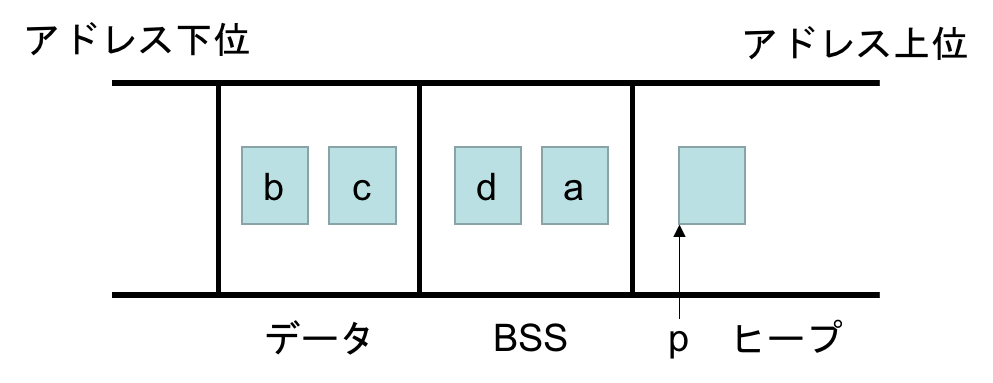
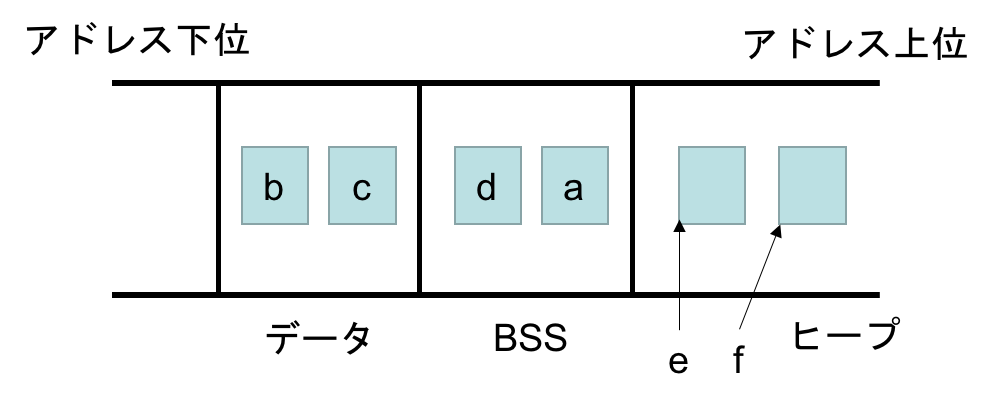
nits

diff --git a/exp1/exp1-6/index.html b/exp1/exp1-6/index.html
@@ -14,7 +14,7 @@
 	  <h1>第 6 回情報工学実験 1</h1>
 	  
 	  <div>
-	    <p>本課題の目的は，プログラムがどのようにコンピュータ上で動作しているか，および広く利用されている x86 のアセンブラに触れ，実機上でプログラムがどのように動作しているかを理解し，実感することである．これまで C 言語のプログラミングや計算機アーキテクチャなどの講義で，コンピュータ上でのプログラムの動作イメージをぼんやりと掴んでいるかもしれない．本課題では，プログラムがどのようにメモリ上に展開され，それらを CPU がどのように実行しているか，そのイメージをよりはっきりさせる．たとえば，再帰関数がコンピュータ上でどのように実行されているか，局所変数，大域変数がメモリ上にどのように配備されているか，を具体的に知る．本実験を通して，これまで学んできたプログラムとコンピュータの動作原理とが結びつけ，コンピュータが全体の動作理解の一助となれば幸いである．</p>
+	    <p>本課題の目的は，プログラムがどのようにコンピュータ上で動作しているか，および広く利用されている x86 のアセンブラに触れ，実機上でプログラムがどのように動作しているかを理解し，実感することである．これまで C 言語のプログラミングや計算機アーキテクチャなどの講義で，コンピュータ上でのプログラムの動作イメージをぼんやりと掴んでいるかもしれない．本課題では，プログラムがどのようにメモリ上に展開され，それらを CPU がどのように実行しているか，そのイメージをよりはっきりさせる．たとえば，再帰関数がコンピュータ上でどのように実行されているか，局所変数，大域変数がメモリ上にどのように配備されているか，を具体的に知る．本実験を通して，これまで学んできたプログラムとコンピュータの動作原理とが結びつき，コンピュータ全体の動作理解の一助となれば幸いである．</p>
 	  </div>
 	  <br>
 	  <ul>
@@ -28,14 +28,14 @@
 
 	      <h2>プログラムとコンピュータ</h2>
 
-	  <p>本課題では，これまで独立して学んできたプログラミングとコンピュータ()との理解を結びつけることを狙いとし，コンピュータ全体の動作の理解を深める．本学科の講義において，プログラムの制御構文やデータ構造を勉強し，C 言語や Java，Python を用いてプログラムを作り，コンピュータ上で動作させながらその理解を深めてきた．一方で，プログラムを実行するコンピュータは，前回の実験や計算機アーキテクチャで学んだように，メモリ上に配置された命令を CPU が取得(fetch)し，それを解釈(decode)，実行(execute)し，プログラムカウンタが示すアドレスを 1 進める．では，自分の作ったプログラム(大域変数や局所変数，制御構文など)がどのような形でメモリ上に配備され，CPU はそのプログラムはどのように実行しているのだろうか．</p>
+	  <p>本課題では，これまで独立して学んできたプログラミングとコンピュータアーキテクチャとの理解を結びつけることを狙いとし，コンピュータ全体の動作の理解を深める．本学科の講義において，プログラムの制御構文やデータ構造を勉強し，C 言語や Java，Python を用いてプログラムを作り，コンピュータ上で動作させながらその理解を深めてきた．一方で，プログラムを実行するコンピュータは，前回の実験1や計算機アーキテクチャで学んだように，メモリ上に配置された命令を CPU が取得(fetch)し，それを解釈(decode)，実行(execute)し，プログラムカウンタが示すアドレスを 1 進める．では，自分の作ったプログラム(大域変数や局所変数，制御構文など)がどのような形でメモリ上に配備され，CPU はそのプログラムはどのように実行しているのだろうか．</p>
 	  <center>
 	    <img src="./fig1.png" width="50%">
 	  </center>
-	<p> コンピュータ全体の動作の理解は本課題をこなせば確実に深まるが，すべてを理解するためにはまだ知識が足りないのが現実である．プログラムはどのようにコンパイルされるのか，なぜ複数のプログラムが動作しているのか，どのように他のコンピュータと通信しているのか，など疑問はたくさんある．これらのトピックについては，3年次に開講される，言語処理やオペレーティングシステム，計算機ネットワークについて触れる．常にコンピュータ全体の動作を意識すると，理解がしやすいと思う．お楽しみに．</p>
+	<p> コンピュータ全体の動作の理解は本課題をこなせば確実に深まるが，すべてを理解するためにはまだ知識が足りないのが現実である．プログラムはどのようにコンパイルされるのか，なぜ複数のプログラムが動作しているのか，どのように他のコンピュータと通信しているのか，など疑問はたくさんある．これらのトピックについては，3年次に開講される，言語処理系やオペレーティングシステム，計算機ネットワークについて触れる．常にコンピュータ全体の動作を意識すると，理解がしやすいと思う．お楽しみに．</p>
 	      
 	      <h2>メモリ上のプログラム</h2>
-	  <p>プログラムがメモリ上に配備された様子を図に示す．プログラムは大きく次の 3 つの領域によって構成される．それぞれ詳細を見ていく．</p>
+	  <p>プログラムがメモリ上に展開された様子を図に示す．プログラムは大きく次の 3 つの領域によって構成される．それぞれ詳細を見ていく．</p>
 	  <center>
 	  <img src="./fig2.png" width="50%">
 	  </center>
@@ -49,7 +49,7 @@
 
 	      
 	  <h3>テキスト領域</h3>
-	  <p>機械語が格納されており，プログラムカウンタは常にテキスト領域を指しており，他領域を指すことはまずない．不正な書き換えを防止するために，読み込み専用になっていることが普通である．</p>
+	  <p>機械語が格納されており，プログラムカウンタは常にテキスト領域を指している．プログラムカウンタは他領域を指すことはまずない．不正な書き換えを防止するために，テキスト領域は読み込み専用になっていることが普通である．</p>
 	  
 	  <h3>データ領域</h3>
 	  <p>機械語が参照するデータが格納されている．データ領域はデータの種類によって，さらに 3 つの領域に別れている．</p>
@@ -104,7 +104,7 @@ f's address = 0x7fded2c04b20
  </code>
 </pre>
 </div>
-<p>初期化された b と c の後に，初期化されていない a と c が配備され，そのずっと後方に動的に確保した e と f がある．</p>
+<p>初期化された b と c の後に，初期化されていない d と a が配備され，そのずっと後方に動的に確保した e と f がある．</p>
 
 	  <center>
 	    <img src="./fig3.png" width="50%">
@@ -112,12 +112,12 @@ f's address = 0x7fded2c04b20
 
 
 <h3>スタック領域</h3>
-	  <p>スタックと聞くと，Last in, First out(LIFO) を想像するであろう．スタック領域は LIFO の動作をしながら，本領域は関数呼び出しを実現する上で重要な役割を果たす．スタック領域には，関数の戻りアドレスや局所変数，関数への引数が格納され，テキスト領域に格納されている機械語から適宜参照される．関数を呼び出してから，その関数から返ってくるまで，スタック以下のように利用される．</p>
+	  <p>スタックと聞くと，Last in, First out(LIFO) を想像するかと思う．スタック領域は LIFO の動作をしながら，関数呼び出しを実現する上で重要な役割を果たす．スタック領域には，関数の戻りアドレスや局所変数，関数への引数などが格納され，テキスト領域に格納されている機械語から適宜参照される．関数を呼び出してから，その関数から返ってくるまで，スタック以下のように利用される．</p>
 
 	  <ol>
-	    <li>関数が呼び出されると，引数の値と関数実行後に実行する機械語のアドレス(= 戻りアドレス)をスタックに格納する．</li><br>
+	    <li>関数が呼び出されると，引数の値と関数実行後に実行するメモリアドレス(= 戻りアドレス)をスタックに格納する．</li><br>
 
-	    <li>呼び出し先の関数の局所変数の領域を確保する．加えて，使用するレジスタの値をスタックに退避する．レジスタ値の退避は，
+	    <li>呼び出し先の関数の局所変数，引数の領域を確保する．加えて，使用するレジスタの値をスタックに退避する．レジスタ値の退避は，
 	      レジスタの値を関数を呼び出す前の状態に戻すために行う．これを行わないと，呼び出し元の関数に戻ったときに，
 	      呼び出し先の関数でのレジスタ値を使うことになり，関数終了後に演算を正しく再開できない．</li><br>
 
@@ -126,7 +126,7 @@ f's address = 0x7fded2c04b20
 	    <li>スタック内の戻りアドレスにジャンプして，呼び出し元の関数を実行する．</li><br>
 	  </ol>
 
-	  <p>たとえば次の関数呼び出しを伴う<a href="./program/sample2.c">プログラム</a>を考える．配列とそのサイズを引数として受け取り，配列の要素の和を返す sum() があり，1 から 10 の整数の和を計算している．</p>
+	  <p>たとえば関数呼び出しを伴う<a href="./program/sample2.c">プログラム</a>を考える．配列とそのサイズを引数として受け取り，配列の要素の和を返す sum() があり，1 から 10 の整数の和を計算している．</p>
 <div class="code">
 	  <pre>
 	    <code>
@@ -157,13 +157,13 @@ f's address = 0x7fded2c04b20
 </code>
  </pre>
 </div>
-	  <p>このプログラムを実行したときのスタックのおおざっぱな変化を下図に示す．簡単のため，レジスタの退避・復元は省略してある．プログラムが起動すると，main() にジャンプする．この際，main() の引数，main() を呼んだ関数への戻りアドレス，main() の局所変数がスタックに積まれる．ある関数を呼び出したときにスタックに積まれる一連のデータをまとめて<b>スタックフレーム</b>と呼ぶ．スタックに一連の情報が積まれたら main() を実行していき，配列 a の初期化が終わると，sum() を呼び出す(17〜20行目)．そして，sum() にジャンプするときには，スタックに引数(a, 10)，戻り番地(21行目に相当するアドレス)，そして sum() の局所変数(i, ret)が積まれる．関数実行後は，スタック上に保存されているの戻り番地へジャンプし，sum() を呼び出すときに生成したスタックフレームを開放する．</p>
+	  <p>このプログラムを実行したときのスタックのおおざっぱな変化を図に示す．簡単のため，レジスタの退避・復元，引数領域の確保は省略してある．プログラムが起動すると，main() にジャンプする．この際，main() の引数，main() を呼んだ関数への戻りアドレス，main() の局所変数がスタックに積まれる．ある関数を呼び出したときにスタックに積まれる一連のデータをまとめて<b>スタックフレーム</b>と呼ぶ．スタックに一連の情報が積まれたら main() を実行していき，配列 a の初期化が終わると，sum() を呼び出す(17〜20行目)．そして，sum() にジャンプするときには，スタックに引数(a, 10)，戻りアドレス(21行目に相当するアドレス)，そして sum() の局所変数(i, ret)が積まれる．関数実行後は，スタック上に保存されているの戻り番地へジャンプし，sum() を呼び出すときに生成したスタックフレームを開放する．</p>
 	  
 	  <center>
 	    <img src="./fig4.png" width="50%">
 	  </center>
 
-	  <p>もう少し複雑な例を考える．たとえば，再帰を利用する<a href="./program/sample3.c">プログラム</a>を考える．以下のプログラムのように，階乗を求める fact() が再帰を利用して記述されており，5 の階乗が出力される．</p>
+	  <p>もう少し複雑な関数呼び出しを考える．たとえば，再帰を利用する<a href="./program/sample3.c">プログラム</a>を考える．以下のプログラムのように，階乗を求める fact() が再帰を利用して記述されており，4 の階乗が出力される．</p>
 <div class="code">
 	  <pre>
 	    <code>
@@ -190,7 +190,7 @@ f's address = 0x7fded2c04b20
 </code>
  </pre>
 </div>
-	  <p>このプログラムを実行したときのスタックのおおざっぱな挙動を図xxx に示す．簡単のため，レジスタの退避・復元は省略してある．プログラムが起動すると，main() が呼ばれてスタック上に value という局所変数の領域が設けられる(13〜15行目)．次に，fact()が呼ばれる(17行目)．ここで，fact()にジャンプするわけだが，このときに関数の戻りアドレスとなるアドレス(18行目に相当するアドレス)と引数として渡した 4 の値がスタック上に積まれる．その後，fact()を実行する前に局所変数 ret の領域が同様にスタック上に確保される(5行目)．今，num = 5 なので，else の方が実行され，fact(3)が呼び出される(8行目)．すると，同様に引数の値，戻り番地，そして局所変数 ret の領域がスタックに設けられる．これが，fact(2)，fact(1)と繰り返される．fact(1)を実行するときに ret に 1 が代入されて，それが返り値になる．すると，fact(1)が終了し，fact(1)へジャンプするときにスタックに積んだ戻り番地に戻る(fact(2)実行時の8行目)．すると，ret には 2(num) × 1(fact(1)の返り値) = 2 が入り，fact(2)は終了する．すると，次は fact(2)へジャンプするときに記録した戻り番地へと戻る(fact(3)実行時の8行目)．同様に，ret には 3(num) × 2(fact(2)の返り値) = 6 が入り，fact(4)と戻っていく．
+	  <p>このプログラムを実行したときのスタックのおおざっぱな挙動を下図に示す．プログラムが起動すると，main() が呼ばれてスタック上に局所変数 value の領域が設けられる(13〜15行目)．次に，fact()が呼ばれる(17行目)．ここで，fact()にジャンプするわけだが，このときに関数の戻りアドレスとなるアドレス(18行目に相当するアドレス)がスタック上に積まれる．その後，fact()を実行する前に局所変数 ret の領域が同様にスタック上に確保される(5行目)．今，num = 4 なので，else の方が実行され，fact(3)が呼び出される(8行目)．すると，同様に戻りアドレス，そして局所変数 ret の領域がスタックに設けられる．これが，fact(2)，fact(1)と繰り返される．fact(1)を実行するときに ret に 1 が代入されて，それが返り値になる．すると，fact(1)が終了し，fact(1)へジャンプするときにスタックに積んだ戻りアドレスに戻る(fact(2)実行時の8行目)．すると，ret には 2(num) × 1(fact(1)の返り値) = 2 が入り，fact(2)は終了する．すると，次は fact(2)へジャンプするときに記録した戻りアドレスへと戻る(fact(3)実行時の8行目)．同様に，ret には 3(num) × 2(fact(2)の返り値) = 6 が入り，fact(4)と戻っていく．
 	  </p>
 	  <center>
 	    <img src="./fig5.png" width="50%">

diff --git a/exp1/exp1-6/x86.html b/exp1/exp1-6/x86.html
@@ -14,7 +14,7 @@
 	  <h1>第 6 回情報工学実験 1</h1>
 	  
 	  <div>
-	    <p>本課題の目的は，プログラムがどのようにコンピュータ上で動作しているか，および広く利用されている x86 のアセンブラに触れ，実機上でプログラムがどのように動作しているかを理解し，実感することである．これまで C 言語のプログラミングや計算機アーキテクチャなどの講義で，コンピュータ上でのプログラムの動作イメージをぼんやりと掴んでいるかもしれない．本課題では，プログラムがどのようにメモリ上に展開され，それらを CPU がどのように実行しているか，そのイメージをよりはっきりさせる．たとえば，再帰関数がコンピュータ上でどのように実行されているか，局所変数，大域変数がメモリ上にどのように配備されているか，を具体的に知る．本実験を通して，これまで学んできたプログラムとコンピュータの動作原理とが結びつけ，コンピュータが全体の動作理解の一助となれば幸いである．</p>
+	    <p>本課題の目的は，プログラムがどのようにコンピュータ上で動作しているか，および広く利用されている x86 のアセンブラに触れ，実機上でプログラムがどのように動作しているかを理解し，実感することである．これまで C 言語のプログラミングや計算機アーキテクチャなどの講義で，コンピュータ上でのプログラムの動作イメージをぼんやりと掴んでいるかもしれない．本課題では，プログラムがどのようにメモリ上に展開され，それらを CPU がどのように実行しているか，そのイメージをよりはっきりさせる．たとえば，再帰関数がコンピュータ上でどのように実行されているか，局所変数，大域変数がメモリ上にどのように配備されているか，を具体的に知る．本実験を通して，これまで学んできたプログラムとコンピュータの動作原理とが結びつき，コンピュータ全体の動作理解の一助となれば幸いである．</p>
 	  </div>
 	  <br>
 	  <ul>
@@ -27,10 +27,9 @@
 	      <br><hr color="blue">
 
 	  <h2>Case Study: x86</h2>
-	  <p>これから x86 の命令セットを題材として，実際のコンピュータ上でどのようにプログラムが動作しているのかを見ていく．ここまでで，コンピュータ上でのプログラムの動作を概観してきたが，x86 上で動作するプログラムも例外なくこの概観に則した動きをする．x86 は CISC に分類され，Intel や AMD の CPU やそれをサポートしている．x86 互換 CPU の市場シェアは絶大で，ハイエンドなサーバマシンをはじめ，組み込み機器，皆が使っているラップトップやデスクトップ PC，EDEN のマシンなども例外なく x86 の命令セットが動作する CPU を搭載している．</p>
+	  <p>これから x86 の命令セットを題材として，目の前のコンピュータ上でどのようにプログラムが動作しているのかを見ていく．ここまでで，プログラムの動作を概観してきたが，x86 上で動作するプログラムも例外なくこれに則した動きをする．x86 は CISC に分類され，Intel や AMD の CPU やそれをサポートしている．x86 互換 CPU の市場シェアは絶大で，ハイエンドなサーバマシンをはじめ，組み込み機器，皆が使っているラップトップやデスクトップ PC，EDEN のマシンなども例外なく x86 の命令セットが動作する CPU を搭載している．</p>
 	  
-	  <p>次に x86 互換 CPU のレジスタ，命令セットを掻い摘んで紹介していく．すべてを紹介，解説しようとすると全セマスタが終わってしまうので，ここではプログラムの動作原理を理解する上で必要なもののみに焦点を当てる．
-	  </p>
+	  <p>次に x86 互換 CPU のレジスタ，命令セットを掻い摘んで紹介していく．すべてを紹介，解説しようとすると全セマスタが終わってしまうので，ここではプログラムの動作原理を理解する上で必要なもののみに焦点を当てる．これまで，非常にシンプルなアセンブラにしか触れていないかもしれないが，基本となる命令は大きく変わらないことが実感できるかと思う．</p>
 	  
 	  <h2>レジスタ</h2>
 	  <p>汎用レジスタは 16 個あり，主たるものを取り上げて説明する．歴史的に名前と役割がなんとなく決まっているものの，
@@ -53,7 +52,7 @@
 	  </center>
 
 	  <h2>命令</h2>
-	  <p>x86 はシンプルな命令から複雑怪奇な命令まで色々とサポートされている．ここでは，代表的な命令について紹介する．ここでのアセンブラは gcc -S で得られる<b> GNUアセンブラ </b> に即している．たとえば，オペランドを()でくくるとアドレス(アドレスを示すオペランドは最大4個のパラメータを取ることができ，ディスプレイスメント(ベースレジスタ, オフセットレジスタ, スケーラ)の形式をとる)，転送先を最後に記述するといったルールがある．</p>
+	  <p>x86 はシンプルな命令から複雑怪奇な命令まで色々とサポートされている．ここでは，代表的な命令について紹介する．ここでの説明は gcc -S で得られる<b> GNUアセンブラ </b> に即している．たとえば，オペランドを()でくくるとアドレス(アドレスを示すオペランドは最大4個のパラメータを取ることができ，ディスプレイスメント(ベースレジスタ, オフセットレジスタ, スケーラ)の形式をとる)，転送先を最後に記述するといったルールがある．</p>
 
 	  <h3>データ転送命令</h3>
 	  <p>プログラムでいうと代入を実現する命令である．x86 では<b>MOV 命令</b>がサポートされており，広く使われる．レジスタ，直接アドレス，即値，間接アドレスなどが指定可能である．32 bit，64 bit の値を取り扱うときには，<b>movl</b> や <b>movq</b> を用いる．たとえば次のように使う．</p>
@@ -145,7 +144,6 @@
 	  
 	  <h3>その他</h3>
 	  <p>他にも論理演算やシフト演算用の命令がサポートされている．多くの場合，名前で挙動が推測できる．適宜，マニュアルを見ながらその機能を確かめて欲しい．</p>
-
 
 	  <h2>プログラムのアセンブラを見てみよう</h2>
 	  <p>次の<a href="./program/sample4.c">プログラム</a>のアセンブラを見てみる．gcc に -S オプションをつけると，拡張子が「s」のファイルが生成され，コンパイルしたプログラムのアセンブラが記述されたファイルが生成される．1 から 10 までの和を計算するプログラムである．

diff --git a/exp1/exp1-6/assignment.html b/exp1/exp1-6/assignment.html
@@ -14,7 +14,7 @@
 	  <h1>第 6 回情報工学実験 1</h1>
 	  
 	  <div>
-	    <p>本課題の目的は，プログラムがどのようにコンピュータ上で動作しているか，および広く利用されている x86 のアセンブラに触れ，実機上でプログラムがどのように動作しているかを理解し，実感することである．これまで C 言語のプログラミングや計算機アーキテクチャなどの講義で，コンピュータ上でのプログラムの動作イメージをぼんやりと掴んでいるかもしれない．本課題では，プログラムがどのようにメモリ上に展開され，それらを CPU がどのように実行しているか，そのイメージをよりはっきりさせる．たとえば，再帰関数がコンピュータ上でどのように実行されているか，局所変数，大域変数がメモリ上にどのように配備されているか，を具体的に知る．本実験を通して，これまで学んできたプログラムとコンピュータの動作原理とが結びつけ，コンピュータが全体の動作理解の一助となれば幸いである．</p>
+	    <p>本課題の目的は，プログラムがどのようにコンピュータ上で動作しているか，および広く利用されている x86 のアセンブラに触れ，実機上でプログラムがどのように動作しているかを理解し，実感することである．これまで C 言語のプログラミングや計算機アーキテクチャなどの講義で，コンピュータ上でのプログラムの動作イメージをぼんやりと掴んでいるかもしれない．本課題では，プログラムがどのようにメモリ上に展開され，それらを CPU がどのように実行しているか，そのイメージをよりはっきりさせる．たとえば，再帰関数がコンピュータ上でどのように実行されているか，局所変数，大域変数がメモリ上にどのように配備されているか，を具体的に知る．本実験を通して，これまで学んできたプログラムとコンピュータの動作原理とが結びつき，コンピュータ全体の動作理解の一助となれば幸いである．</p>
 	  </div>
 	  <br>
 	  <ul>

diff --git a/exp1/exp1-6/slide.html b/exp1/exp1-6/slide.html
@@ -14,7 +14,7 @@
 	  <h1>第 6 回情報工学実験 1</h1>
 	  
 	  <div>
-	    <p>本課題の目的は，プログラムがどのようにコンピュータ上で動作しているか，および広く利用されている x86 のアセンブラに触れ，実機上でプログラムがどのように動作しているかを理解し，実感することである．これまで C 言語のプログラミングや計算機アーキテクチャなどの講義で，コンピュータ上でのプログラムの動作イメージをぼんやりと掴んでいるかもしれない．本課題では，プログラムがどのようにメモリ上に展開され，それらを CPU がどのように実行しているか，そのイメージをよりはっきりさせる．たとえば，再帰関数がコンピュータ上でどのように実行されているか，局所変数，大域変数がメモリ上にどのように配備されているか，を具体的に知る．本実験を通して，これまで学んできたプログラムとコンピュータの動作原理とが結びつけ，コンピュータが全体の動作理解の一助となれば幸いである．</p>
+	    <p>本課題の目的は，プログラムがどのようにコンピュータ上で動作しているか，および広く利用されている x86 のアセンブラに触れ，実機上でプログラムがどのように動作しているかを理解し，実感することである．これまで C 言語のプログラミングや計算機アーキテクチャなどの講義で，コンピュータ上でのプログラムの動作イメージをぼんやりと掴んでいるかもしれない．本課題では，プログラムがどのようにメモリ上に展開され，それらを CPU がどのように実行しているか，そのイメージをよりはっきりさせる．たとえば，再帰関数がコンピュータ上でどのように実行されているか，局所変数，大域変数がメモリ上にどのように配備されているか，を具体的に知る．本実験を通して，これまで学んできたプログラムとコンピュータの動作原理とが結びつき，コンピュータ全体の動作理解の一助となれば幸いである．</p>
 	  </div>
 	  <br>
 	  <ul>

diff --git a/exp1/exp1-6/submit.html b/exp1/exp1-6/submit.html
@@ -14,7 +14,7 @@
 	 <h1>第 6 回情報工学実験 1</h1>
 	  
 	  <div>
-	    <p>本課題の目的は，プログラムがどのようにコンピュータ上で動作しているか，および広く利用されている x86 のアセンブラに触れ，実機上でプログラムがどのように動作しているかを理解し，実感することである．これまで C 言語のプログラミングや計算機アーキテクチャなどの講義で，コンピュータ上でのプログラムの動作イメージをぼんやりと掴んでいるかもしれない．本課題では，プログラムがどのようにメモリ上に展開され，それらを CPU がどのように実行しているか，そのイメージをよりはっきりさせる．たとえば，再帰関数がコンピュータ上でどのように実行されているか，局所変数，大域変数がメモリ上にどのように配備されているか，を具体的に知る．本実験を通して，これまで学んできたプログラムとコンピュータの動作原理とが結びつけ，コンピュータが全体の動作理解の一助となれば幸いである．</p>
+	    <p>本課題の目的は，プログラムがどのようにコンピュータ上で動作しているか，および広く利用されている x86 のアセンブラに触れ，実機上でプログラムがどのように動作しているかを理解し，実感することである．これまで C 言語のプログラミングや計算機アーキテクチャなどの講義で，コンピュータ上でのプログラムの動作イメージをぼんやりと掴んでいるかもしれない．本課題では，プログラムがどのようにメモリ上に展開され，それらを CPU がどのように実行しているか，そのイメージをよりはっきりさせる．たとえば，再帰関数がコンピュータ上でどのように実行されているか，局所変数，大域変数がメモリ上にどのように配備されているか，を具体的に知る．本実験を通して，これまで学んできたプログラムとコンピュータの動作原理とが結びつき，コンピュータ全体の動作理解の一助となれば幸いである．</p>
 	  </div>
 	  <br>
 	  <ul>
